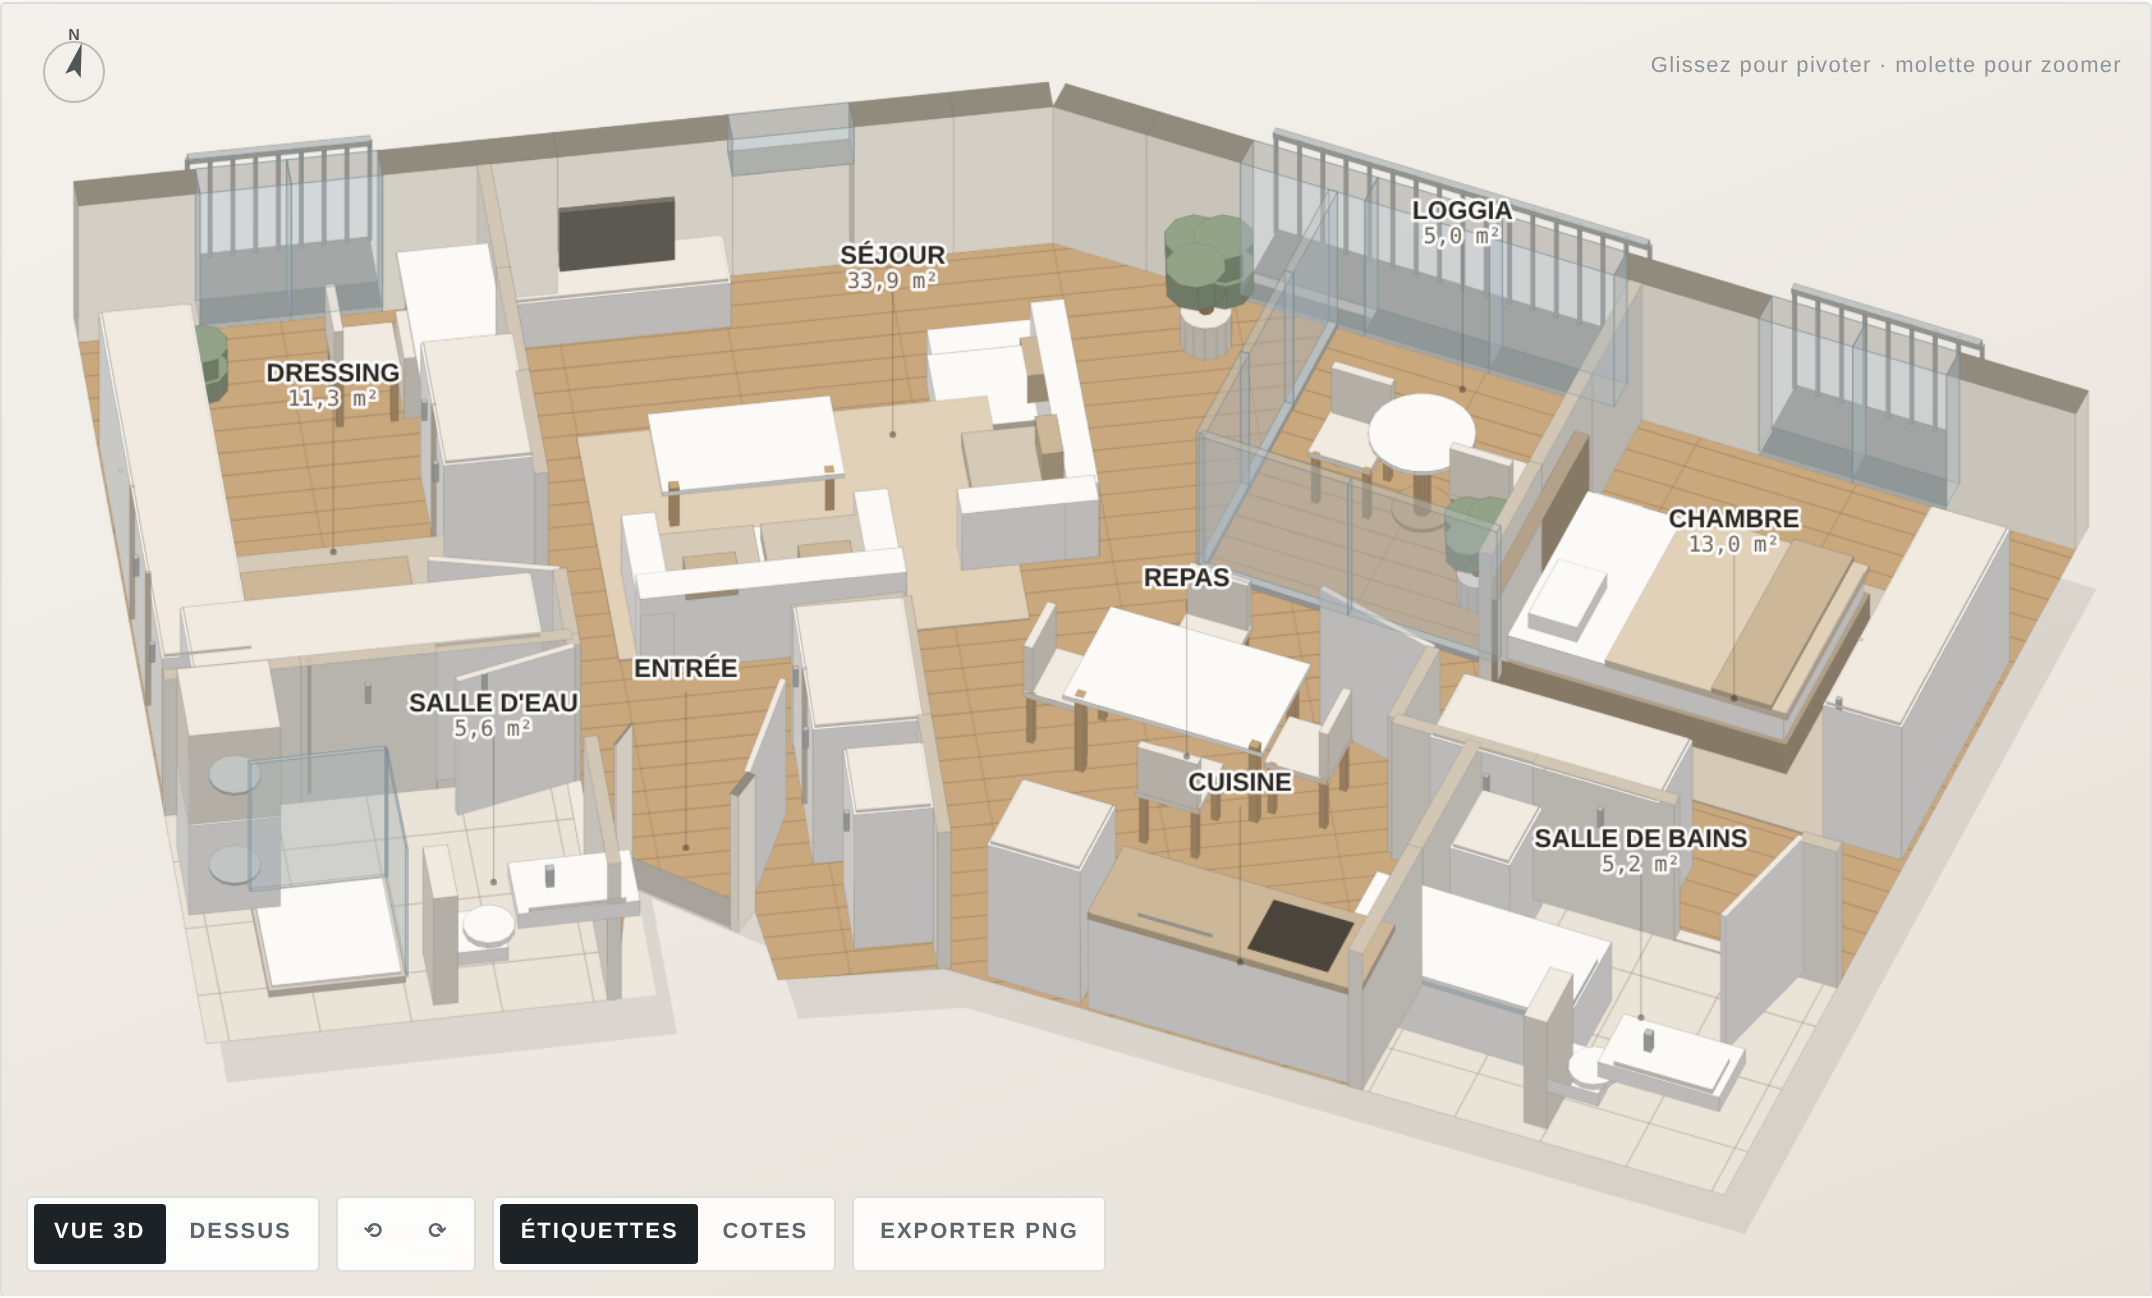
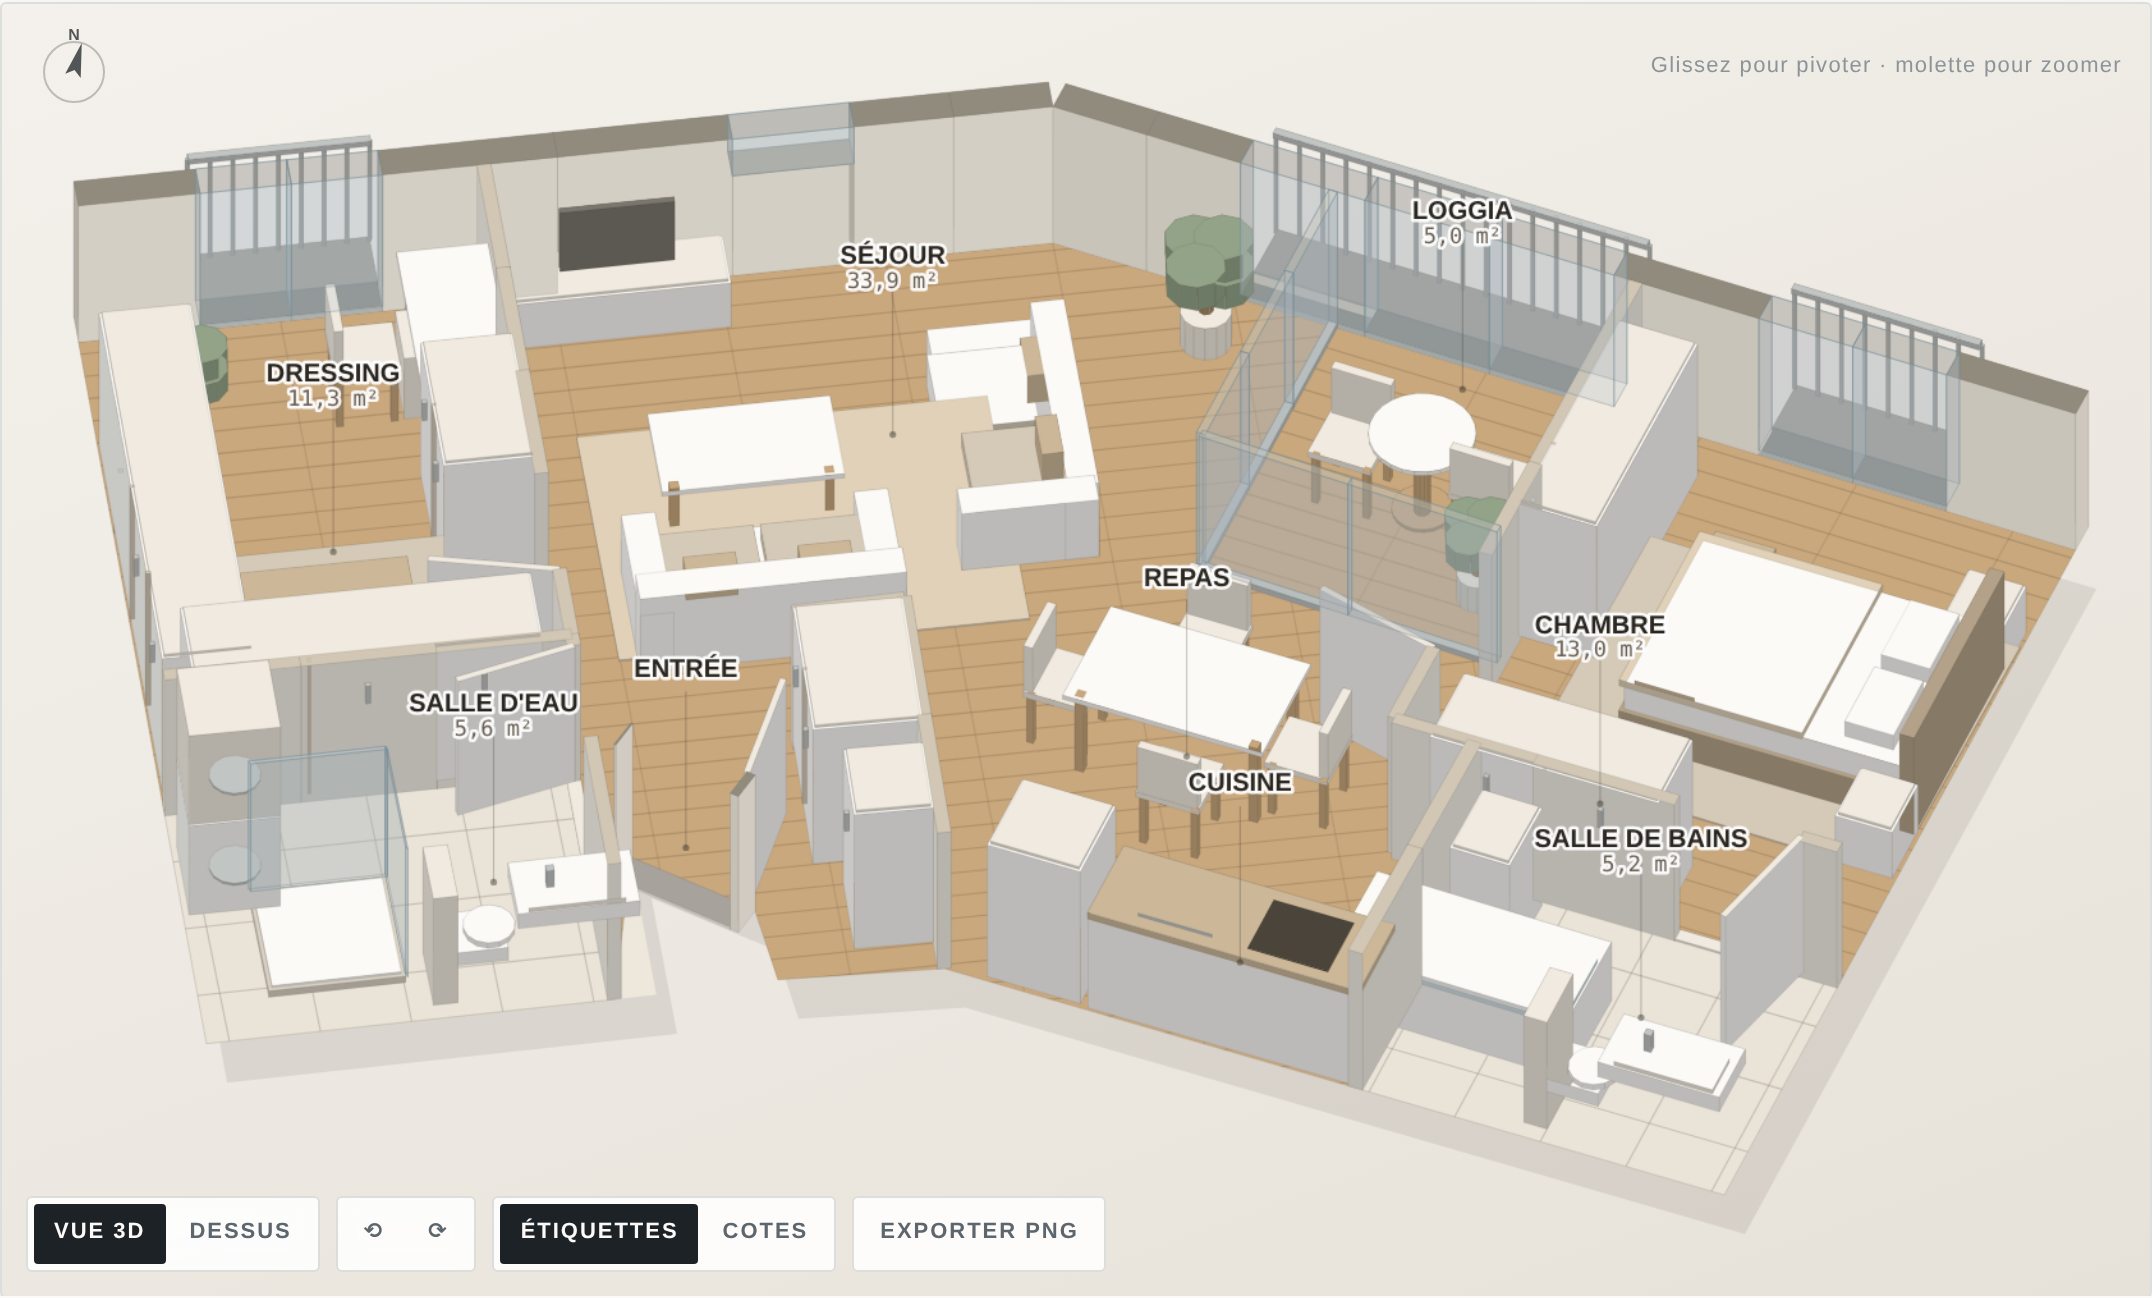
Retourne le lit de la chambre, tête contre la façade est
La tête de lit passe contre le mur est, pieds vers la loggia, avec deux
chevets de part et d'autre. L'armoire libère la façade est et vient
contre le mur ouest, côté loggia ; le placard du mur sud ne bouge pas.
L'étiquette de la pièce se décale hors du lit.

Claude-Session: https://claude.ai/code/session_01PscxUxGcwcYz6V62f58EbU

Changed region(s): [[0.6849, 0.2465, 0.9651, 0.678]]

diff --git a/plan-3d-appartement/index.html b/plan-3d-appartement/index.html
@@ -226,7 +226,7 @@
         <li><span>Sols</span>Parquet chêne clair posé dans l'axe de la façade nord‑ouest ; grès cérame beige dans les pièces d'eau.</li>
         <li><span>Assises</span>Deux canapés deux places en tissu blanc cassé, coussins sable, tapis bouclé beige.</li>
         <li><span>Rangements</span>Dressing, placards et cuisine en laque mate blanche, plans de travail sable.</li>
-        <li><span>Chambre</span>Tête de lit taupe, linge blanc, plaid beige, armoire toute hauteur en façade est.</li>
+        <li><span>Chambre</span>Tête de lit taupe, linge blanc, plaid beige, armoire toute hauteur côté loggia, tête de lit contre la façade est.</li>
         <li><span>Dressing</span>Penderies sur les trois murs, bureau sous la fenêtre, banquette centrale.</li>
       </ul>
       <p>Les murs sont recoupés à <strong>1,30 m</strong> pour dégager la vue plongeante ; hauteur sous plafond réelle 2,55 m.</p>
@@ -252,7 +252,7 @@
 /* ============================ GÉOMÉTRIE (mètres) ============================ */
 /* Données relevées sur le plan d'origine — source commune au rendu 3D et aux
    planches PDF (voir plan_data.py). */
-const DATA = {"V": {"W": [-0.041, -0.041], "N1": [5.861, -2.537], "N2": [13.002, -1.621], "E": [12.277, 4.517], "B1": [6.849, 3.886], "P1": [5.828, 4.262], "P2": [5.527, 3.712], "P3": [4.625, 3.473], "B2": [5.098, 4.597], "S": [2.38, 5.775], "A": [2.415, -1.079], "D": [4.048, 2.808], "Dw": [1.577, 3.847], "Se": [4.844, 4.707], "G1": [7.817, -2.286], "G2": [9.93, -2.015], "G3": [9.639, 0.342], "G4": [7.544, 0.022], "K1": [9.417, 2.143], "K2": [12.515, 2.504], "H1": [9.974, 2.208], "H4": [9.711, 4.219], "Ea": [5.379, 2.225], "Eb": [6.054, 1.921]}, "OUTLINE": ["W", "N1", "N2", "E", "B1", "P1", "P2", "P3", "B2", "S"], "ROOMS": [{"id": "sej", "name": "SÉJOUR", "full": "Séjour, cuisine et entrée", "floor": "parquet", "ang": -22.9, "label": [5.3, -0.6], "poly": ["A", "N1", "G1", "G4", "G3", "K1", "H1", "H4", "B1", "P1", "P2", "P3", "Se", "D"]}, {"id": "ch2", "name": "DRESSING", "full": "Dressing (chambre 2)", "floor": "parquet", "ang": -22.9, "label": [2.05, 1.35], "poly": ["W", "A", "D", "Dw"]}, {"id": "ch1", "name": "CHAMBRE", "full": "Chambre", "floor": "parquet", "ang": 7.3, "label": [11.2, 0.25], "poly": ["G2", "N2", "K2", "K1"]}, {"id": "log", "name": "LOGGIA", "full": "Loggia vitrée", "floor": "parquet", "ang": 7.3, "label": [8.78, -1.95], "poly": ["G1", "G2", "G3", "G4"]}, {"id": "sdb", "name": "SALLE DE BAINS", "full": "Salle de bains", "floor": "carrelage", "ang": 6.6, "label": [11.35, 3.15], "poly": ["H1", "K2", "E", "H4"]}, {"id": "sde", "name": "SALLE D'EAU", "full": "Salle d'eau", "floor": "carrelage", "ang": -23.4, "label": [3.82, 3.92], "poly": ["Dw", "D", "Se", "S"]}], "EXTRA": [["CUISINE", [8.7, 3.35]], ["REPAS", [7.89, 1.67]], ["ENTRÉE", [4.95, 3.3]]], "WALLS": [{"a": "W", "b": "N1", "t": 0.22, "ext": 1, "op": [{"t0": 0.8, "t1": 2.0, "kind": "french"}, {"t0": 4.3, "t1": 5.1, "kind": "win", "sill": 0.95}]}, {"a": "N1", "b": "N2", "t": 0.22, "ext": 1, "op": [{"t0": 1.32, "t1": 3.95, "kind": "french"}, {"t0": 4.97, "t1": 6.29, "kind": "french"}]}, {"a": "N2", "b": "E", "t": 0.22, "ext": 1, "op": []}, {"a": "E", "b": "B1", "t": 0.22, "ext": 1, "op": [{"t0": 1.55, "t1": 2.42, "kind": "win", "sill": 1.0}, {"t0": 2.74, "t1": 3.1, "kind": "win", "sill": 1.15}]}, {"a": "B1", "b": "P1", "t": 0.22, "ext": 1, "op": []}, {"a": "P1", "b": "P2", "t": 0.22, "ext": 1, "op": []}, {"a": "P2", "b": "P3", "t": 0.22, "ext": 1, "keep": 1, "op": [{"t0": 0.06, "t1": 0.92, "kind": "door", "swing": 1, "main": 1}]}, {"a": "P3", "b": "B2", "t": 0.22, "ext": 1, "op": []}, {"a": "B2", "b": "S", "t": 0.22, "ext": 1, "op": [{"t0": 1.63, "t1": 2.25, "kind": "win", "sill": 1.05}]}, {"a": "S", "b": "W", "t": 0.22, "ext": 1, "op": []}, {"a": "Eb", "b": "B1", "t": 0.09, "op": []}, {"a": "Ea", "b": "Eb", "t": 0.07, "op": []}, {"a": "A", "b": "D", "t": 0.09, "op": [{"t0": 2.77, "t1": 3.63, "kind": "door", "swing": -1}]}, {"a": "Dw", "b": "D", "t": 0.09, "op": []}, {"a": "D", "b": "Se", "t": 0.09, "op": [{"t0": 0.1, "t1": 0.92, "kind": "door", "swing": 1}]}, {"a": "G2", "b": "K1", "t": 0.09, "op": [{"t0": 2.61, "t1": 3.51, "kind": "door", "swing": -1}]}, {"a": "K1", "b": "K2", "t": 0.09, "op": [{"t0": 1.98, "t1": 2.85, "kind": "door", "swing": -1}]}, {"a": "H1", "b": "H4", "t": 0.1, "op": []}, {"a": "G1", "b": "G4", "t": 0.06, "op": [{"t0": 0, "t1": 99, "kind": "glass"}]}, {"a": "G4", "b": "G3", "t": 0.06, "op": [{"t0": 0, "t1": 99, "kind": "glass"}]}], "F": [{"t": "rug", "x": 4.95, "y": 0.35, "yaw": -22.92, "w": 2.7, "d": 2.0, "col": "beige"}, {"x": 3.284, "y": -1.165, "t": "tv", "yaw": -22.92, "w": 1.45, "d": 0.45}, {"t": "table", "x": 4.49, "y": 0.07, "yaw": -22.92, "w": 1.2, "d": 0.7, "h": 0.4}, {"t": "sofa", "x": 4.9, "y": 1.15, "yaw": -112.92, "w": 1.75, "d": 0.9, "seats": 2}, {"t": "sofa", "x": 6.15, "y": -0.45, "yaw": 157.08, "w": 1.65, "d": 0.9, "seats": 2}, {"t": "plant", "x": 7.05, "y": -1.95, "s": 1.0}, {"t": "table", "x": 7.89, "y": 1.67, "yaw": 6.63, "w": 1.4, "d": 0.85, "h": 0.75}, {"t": "chair", "x": 7.87, "y": 1.05, "yaw": 96.63}, {"t": "chair", "x": 8.01, "y": 2.29, "yaw": -83.37}, {"t": "chair", "x": 7.07, "y": 1.62, "yaw": 6.63}, {"t": "chair", "x": 8.75, "y": 1.82, "yaw": 186.63}, {"x": 7.503, "y": 3.63, "t": "cabinet", "yaw": 6.63, "w": 0.65, "d": 0.62, "h": 1.28}, {"t": "kitchen", "x": 0, "y": 0, "ka": "B1", "kb": "E", "t0": 1.0, "t1": 2.9, "off": 0.33, "yaw": 6.63}, {"t": "wardrobe", "x": 5.918, "y": 2.583, "yaw": 68.2, "w": 1.09, "d": 0.72, "h": 1.3, "doors": 2}, {"t": "wardrobe", "x": 6.375, "y": 3.52, "yaw": 68.2, "w": 0.58, "d": 0.52, "h": 1.3, "doors": 1}, {"t": "rug", "x": 2.2, "y": 2.05, "yaw": -22.92, "w": 2.1, "d": 1.5, "col": "greige"}, {"x": 1.206, "y": 2.148, "t": "wardrobe", "yaw": 67.4, "w": 3.1, "d": 0.6, "h": 1.28, "doors": 4}, {"x": 2.914, "y": 0.935, "t": "wardrobe", "yaw": 67.21, "w": 1.1, "d": 0.6, "h": 1.28, "doors": 2}, {"x": 2.696, "y": 3.051, "t": "wardrobe", "yaw": -22.81, "w": 2.3, "d": 0.58, "h": 1.28, "doors": 3}, {"x": 2.441, "y": -0.244, "t": "desk", "yaw": 67.21, "w": 1.2, "d": 0.6, "h": 0.74}, {"x": 1.887, "y": -0.011, "t": "chair", "yaw": -22.79}, {"t": "bench", "x": 2.2, "y": 2.05, "yaw": -22.92, "w": 1.1, "d": 0.42, "h": 0.44}, {"t": "plant", "x": 0.85, "y": 0.55, "s": 0.85}, {"x": 4.528, "y": 4.539, "t": "basin", "yaw": -23.430000000000007, "w": 0.8}, {"x": 3.904, "y": 4.733, "t": "wc", "yaw": -23.430000000000007}, {"t": "shower", "x": 2.9, "y": 4.68, "yaw": -23.43, "w": 0.9, "d": 0.9}, {"x": 2.137, "y": 4.306, "t": "appliance", "yaw": 67.4, "stack": 1}, {"t": "roundtable", "x": 8.8, "y": -0.86, "r": 0.35}, {"t": "chair", "x": 8.31, "y": -0.92, "yaw": 97.31}, {"t": "chair", "x": 9.29, "y": -0.8, "yaw": -82.69}, {"t": "plant", "x": 9.35, "y": -0.2, "s": 0.8}, {"t": "rug", "x": 10.95, "y": 0.05, "yaw": 7.31, "w": 2.6, "d": 2.2, "col": "greige"}, {"t": "bed", "x": 10.809, "y": 0.008, "yaw": 7.03, "w": 1.45, "l": 2.0}, {"x": 12.464, "y": 0.38, "t": "wardrobe", "yaw": 96.74, "w": 1.9, "d": 0.55, "h": 1.28, "doors": 3}, {"x": 10.495, "y": 1.967, "t": "wardrobe", "yaw": 6.65, "w": 1.6, "d": 0.6, "h": 1.22, "doors": 2}, {"x": 10.254, "y": 3.304, "t": "tub", "yaw": 97.45, "w": 0.75, "l": 1.65}, {"x": 11.175, "y": 4.037, "t": "wc", "yaw": 6.63}, {"x": 11.833, "y": 4.183, "t": "basin", "yaw": 6.63, "w": 0.85}, {"x": 10.225, "y": 2.604, "t": "cabinet", "yaw": 97.45, "w": 0.55, "d": 0.42, "h": 0.95}], "EXT_T": 0.22, "INT_T": 0.09, "WH": 1.3};
+const DATA = {"V": {"W": [-0.041, -0.041], "N1": [5.861, -2.537], "N2": [13.002, -1.621], "E": [12.277, 4.517], "B1": [6.849, 3.886], "P1": [5.828, 4.262], "P2": [5.527, 3.712], "P3": [4.625, 3.473], "B2": [5.098, 4.597], "S": [2.38, 5.775], "A": [2.415, -1.079], "D": [4.048, 2.808], "Dw": [1.577, 3.847], "Se": [4.844, 4.707], "G1": [7.817, -2.286], "G2": [9.93, -2.015], "G3": [9.639, 0.342], "G4": [7.544, 0.022], "K1": [9.417, 2.143], "K2": [12.515, 2.504], "H1": [9.974, 2.208], "H4": [9.711, 4.219], "Ea": [5.379, 2.225], "Eb": [6.054, 1.921]}, "OUTLINE": ["W", "N1", "N2", "E", "B1", "P1", "P2", "P3", "B2", "S"], "ROOMS": [{"id": "sej", "name": "SÉJOUR", "full": "Séjour, cuisine et entrée", "floor": "parquet", "ang": -22.9, "label": [5.3, -0.6], "poly": ["A", "N1", "G1", "G4", "G3", "K1", "H1", "H4", "B1", "P1", "P2", "P3", "Se", "D"]}, {"id": "ch2", "name": "DRESSING", "full": "Dressing (chambre 2)", "floor": "parquet", "ang": -22.9, "label": [2.05, 1.35], "poly": ["W", "A", "D", "Dw"]}, {"id": "ch1", "name": "CHAMBRE", "full": "Chambre", "floor": "parquet", "ang": 7.3, "label": [10.6, 1.38], "poly": ["G2", "N2", "K2", "K1"]}, {"id": "log", "name": "LOGGIA", "full": "Loggia vitrée", "floor": "parquet", "ang": 7.3, "label": [8.78, -1.95], "poly": ["G1", "G2", "G3", "G4"]}, {"id": "sdb", "name": "SALLE DE BAINS", "full": "Salle de bains", "floor": "carrelage", "ang": 6.6, "label": [11.35, 3.15], "poly": ["H1", "K2", "E", "H4"]}, {"id": "sde", "name": "SALLE D'EAU", "full": "Salle d'eau", "floor": "carrelage", "ang": -23.4, "label": [3.82, 3.92], "poly": ["Dw", "D", "Se", "S"]}], "EXTRA": [["CUISINE", [8.7, 3.35]], ["REPAS", [7.89, 1.67]], ["ENTRÉE", [4.95, 3.3]]], "WALLS": [{"a": "W", "b": "N1", "t": 0.22, "ext": 1, "op": [{"t0": 0.8, "t1": 2.0, "kind": "french"}, {"t0": 4.3, "t1": 5.1, "kind": "win", "sill": 0.95}]}, {"a": "N1", "b": "N2", "t": 0.22, "ext": 1, "op": [{"t0": 1.32, "t1": 3.95, "kind": "french"}, {"t0": 4.97, "t1": 6.29, "kind": "french"}]}, {"a": "N2", "b": "E", "t": 0.22, "ext": 1, "op": []}, {"a": "E", "b": "B1", "t": 0.22, "ext": 1, "op": [{"t0": 1.55, "t1": 2.42, "kind": "win", "sill": 1.0}, {"t0": 2.74, "t1": 3.1, "kind": "win", "sill": 1.15}]}, {"a": "B1", "b": "P1", "t": 0.22, "ext": 1, "op": []}, {"a": "P1", "b": "P2", "t": 0.22, "ext": 1, "op": []}, {"a": "P2", "b": "P3", "t": 0.22, "ext": 1, "keep": 1, "op": [{"t0": 0.06, "t1": 0.92, "kind": "door", "swing": 1, "main": 1}]}, {"a": "P3", "b": "B2", "t": 0.22, "ext": 1, "op": []}, {"a": "B2", "b": "S", "t": 0.22, "ext": 1, "op": [{"t0": 1.63, "t1": 2.25, "kind": "win", "sill": 1.05}]}, {"a": "S", "b": "W", "t": 0.22, "ext": 1, "op": []}, {"a": "Eb", "b": "B1", "t": 0.09, "op": []}, {"a": "Ea", "b": "Eb", "t": 0.07, "op": []}, {"a": "A", "b": "D", "t": 0.09, "op": [{"t0": 2.77, "t1": 3.63, "kind": "door", "swing": -1}]}, {"a": "Dw", "b": "D", "t": 0.09, "op": []}, {"a": "D", "b": "Se", "t": 0.09, "op": [{"t0": 0.1, "t1": 0.92, "kind": "door", "swing": 1}]}, {"a": "G2", "b": "K1", "t": 0.09, "op": [{"t0": 2.61, "t1": 3.51, "kind": "door", "swing": -1}]}, {"a": "K1", "b": "K2", "t": 0.09, "op": [{"t0": 1.98, "t1": 2.85, "kind": "door", "swing": -1}]}, {"a": "H1", "b": "H4", "t": 0.1, "op": []}, {"a": "G1", "b": "G4", "t": 0.06, "op": [{"t0": 0, "t1": 99, "kind": "glass"}]}, {"a": "G4", "b": "G3", "t": 0.06, "op": [{"t0": 0, "t1": 99, "kind": "glass"}]}], "F": [{"t": "rug", "x": 4.95, "y": 0.35, "yaw": -22.92, "w": 2.7, "d": 2.0, "col": "beige"}, {"x": 3.284, "y": -1.165, "t": "tv", "yaw": -22.92, "w": 1.45, "d": 0.45}, {"t": "table", "x": 4.49, "y": 0.07, "yaw": -22.92, "w": 1.2, "d": 0.7, "h": 0.4}, {"t": "sofa", "x": 4.9, "y": 1.15, "yaw": -112.92, "w": 1.75, "d": 0.9, "seats": 2}, {"t": "sofa", "x": 6.15, "y": -0.45, "yaw": 157.08, "w": 1.65, "d": 0.9, "seats": 2}, {"t": "plant", "x": 7.05, "y": -1.95, "s": 1.0}, {"t": "table", "x": 7.89, "y": 1.67, "yaw": 6.63, "w": 1.4, "d": 0.85, "h": 0.75}, {"t": "chair", "x": 7.87, "y": 1.05, "yaw": 96.63}, {"t": "chair", "x": 8.01, "y": 2.29, "yaw": -83.37}, {"t": "chair", "x": 7.07, "y": 1.62, "yaw": 6.63}, {"t": "chair", "x": 8.75, "y": 1.82, "yaw": 186.63}, {"x": 7.503, "y": 3.63, "t": "cabinet", "yaw": 6.63, "w": 0.65, "d": 0.62, "h": 1.28}, {"t": "kitchen", "x": 0, "y": 0, "ka": "B1", "kb": "E", "t0": 1.0, "t1": 2.9, "off": 0.33, "yaw": 6.63}, {"t": "wardrobe", "x": 5.918, "y": 2.583, "yaw": 68.2, "w": 1.09, "d": 0.72, "h": 1.3, "doors": 2}, {"t": "wardrobe", "x": 6.375, "y": 3.52, "yaw": 68.2, "w": 0.58, "d": 0.52, "h": 1.3, "doors": 1}, {"t": "rug", "x": 2.2, "y": 2.05, "yaw": -22.92, "w": 2.1, "d": 1.5, "col": "greige"}, {"x": 1.206, "y": 2.148, "t": "wardrobe", "yaw": 67.4, "w": 3.1, "d": 0.6, "h": 1.28, "doors": 4}, {"x": 2.914, "y": 0.935, "t": "wardrobe", "yaw": 67.21, "w": 1.1, "d": 0.6, "h": 1.28, "doors": 2}, {"x": 2.696, "y": 3.051, "t": "wardrobe", "yaw": -22.81, "w": 2.3, "d": 0.58, "h": 1.28, "doors": 3}, {"x": 2.441, "y": -0.244, "t": "desk", "yaw": 67.21, "w": 1.2, "d": 0.6, "h": 0.74}, {"x": 1.887, "y": -0.011, "t": "chair", "yaw": -22.79}, {"t": "bench", "x": 2.2, "y": 2.05, "yaw": -22.92, "w": 1.1, "d": 0.42, "h": 0.44}, {"t": "plant", "x": 0.85, "y": 0.55, "s": 0.85}, {"x": 4.528, "y": 4.539, "t": "basin", "yaw": -23.430000000000007, "w": 0.8}, {"x": 3.904, "y": 4.733, "t": "wc", "yaw": -23.430000000000007}, {"t": "shower", "x": 2.9, "y": 4.68, "yaw": -23.43, "w": 0.9, "d": 0.9}, {"x": 2.137, "y": 4.306, "t": "appliance", "yaw": 67.4, "stack": 1}, {"t": "roundtable", "x": 8.8, "y": -0.86, "r": 0.35}, {"t": "chair", "x": 8.31, "y": -0.92, "yaw": 97.31}, {"t": "chair", "x": 9.29, "y": -0.8, "yaw": -82.69}, {"t": "plant", "x": 9.35, "y": -0.2, "s": 0.8}, {"t": "rug", "x": 11.45, "y": 0.25, "yaw": 7.31, "w": 2.6, "d": 2.2, "col": "greige"}, {"t": "bed", "x": 11.655, "y": 0.234, "yaw": 186.7, "w": 1.45, "l": 2.0}, {"x": 12.66, "y": -0.604, "t": "cabinet", "yaw": 96.74, "w": 0.45, "d": 0.4, "h": 0.46}, {"x": 12.437, "y": 1.283, "t": "cabinet", "yaw": 96.74, "w": 0.45, "d": 0.4, "h": 0.46}, {"x": 10.078, "y": -0.762, "t": "wardrobe", "yaw": 97.03, "w": 1.75, "d": 0.55, "h": 1.28, "doors": 3}, {"x": 10.495, "y": 1.967, "t": "wardrobe", "yaw": 6.65, "w": 1.6, "d": 0.6, "h": 1.22, "doors": 2}, {"x": 10.254, "y": 3.304, "t": "tub", "yaw": 97.45, "w": 0.75, "l": 1.65}, {"x": 11.175, "y": 4.037, "t": "wc", "yaw": 6.63}, {"x": 11.833, "y": 4.183, "t": "basin", "yaw": 6.63, "w": 0.85}, {"x": 10.225, "y": 2.604, "t": "cabinet", "yaw": 97.45, "w": 0.55, "d": 0.42, "h": 0.95}], "EXT_T": 0.22, "INT_T": 0.09, "WH": 1.3};
 const V = DATA.V;
 const P = k => V[k];
 const OUTLINE = DATA.OUTLINE.map(P);

diff --git a/plan-3d-appartement/plan3d.tpl.html b/plan-3d-appartement/plan3d.tpl.html
@@ -226,7 +226,7 @@
         <li><span>Sols</span>Parquet chêne clair posé dans l'axe de la façade nord‑ouest ; grès cérame beige dans les pièces d'eau.</li>
         <li><span>Assises</span>Deux canapés deux places en tissu blanc cassé, coussins sable, tapis bouclé beige.</li>
         <li><span>Rangements</span>Dressing, placards et cuisine en laque mate blanche, plans de travail sable.</li>
-        <li><span>Chambre</span>Tête de lit taupe, linge blanc, plaid beige, armoire toute hauteur en façade est.</li>
+        <li><span>Chambre</span>Tête de lit taupe, linge blanc, plaid beige, armoire toute hauteur côté loggia, tête de lit contre la façade est.</li>
         <li><span>Dressing</span>Penderies sur les trois murs, bureau sous la fenêtre, banquette centrale.</li>
       </ul>
       <p>Les murs sont recoupés à <strong>1,30 m</strong> pour dégager la vue plongeante ; hauteur sous plafond réelle 2,55 m.</p>

diff --git a/plan-3d-appartement/plan_data.py b/plan-3d-appartement/plan_data.py
@@ -22,7 +22,7 @@ ROOMS = [
  dict(id="ch2", name="DRESSING", full="Dressing (chambre 2)", floor="parquet", ang=-22.9,
       label=(2.05,1.35), poly=["W","A","D","Dw"]),
  dict(id="ch1", name="CHAMBRE", full="Chambre", floor="parquet", ang=7.3,
-      label=(11.20,0.25), poly=["G2","N2","K2","K1"]),
+      label=(10.60,1.38), poly=["G2","N2","K2","K1"]),
  dict(id="log", name="LOGGIA", full="Loggia vitrée", floor="parquet", ang=7.3,
       label=(8.78,-1.95), poly=["G1","G2","G3","G4"]),
  dict(id="sdb", name="SALLE DE BAINS", full="Salle de bains", floor="carrelage", ang=6.6,
@@ -132,9 +132,12 @@ add(t="chair", x=8.31, y=-0.92, yaw=NO+90)
 add(t="chair", x=9.29, y=-0.80, yaw=NO-90)
 add(t="plant", x=9.35, y=-0.20, s=0.8)
 # ----------------------------------------------------------------- CHAMBRE
-add(t="rug", x=10.95,y=0.05, yaw=NO, w=2.60, d=2.20, col="greige")
-add(t="bed", x=10.809,y=0.008, yaw=7.03, w=1.45, l=2.00)
-at(along("N2","E",2.05,0.30,room="ch1"), t="wardrobe", yaw=ES, w=1.90, d=0.55, h=1.28, doors=3)
+add(t="rug", x=11.45,y=0.25, yaw=NO, w=2.60, d=2.20, col="greige")
+add(t="bed", x=11.655,y=0.234, yaw=186.7, w=1.45, l=2.00)          # tête contre la façade est
+at(along("N2","E",1.05,0.22,room="ch1"), t="cabinet", yaw=ES, w=0.45, d=0.40, h=0.46)
+at(along("N2","E",2.95,0.22,room="ch1"), t="cabinet", yaw=ES, w=0.45, d=0.40, h=0.46)
+at(along("G2","K1",1.225,0.30,room="ch1"), t="wardrobe", yaw=wallAng("G2","K1"),
+   w=1.75, d=0.55, h=1.28, doors=3)                                 # armoire côté loggia
 at(along("K1","K2",1.05,0.30,room="ch1"), t="wardrobe", yaw=wallAng("K1","K2"), w=1.60, d=0.60, h=1.22, doors=2)
 # ----------------------------------------------------------- SALLE DE BAINS
 at(along("H1","H4",1.05,0.42,room="sdb"), t="tub", yaw=wallAng("H1","H4"), w=0.75, l=1.65)
